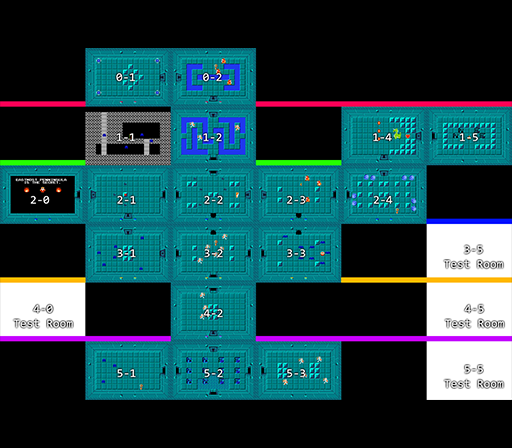
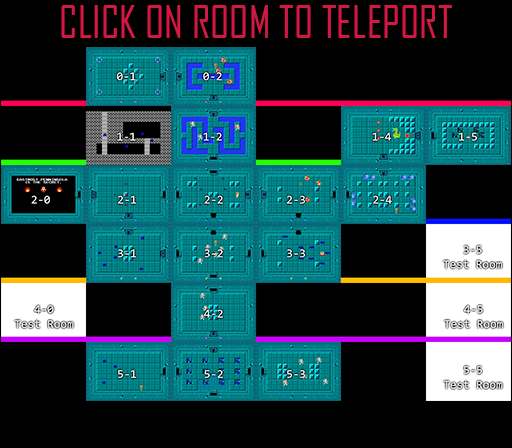
A lot of initial commits

diff --git a/ZeldaTeam3/MouseController.cs b/ZeldaTeam3/MouseController.cs
@@ -1,0 +1,135 @@
+using System.Linq;
+using System;
+using System.Collections.Generic;
+using Microsoft.Xna.Framework.Input;
+using Microsoft.Xna.Framework;
+using Microsoft.Xna.Framework.Graphics;
+
+namespace Zelda
+{
+    internal class MouseController : IUpdatable
+    {
+        private readonly List<Rectangle> _roommap;
+        private IScene _scene;
+
+        public MouseController(ZeldaGame zeldaGame)
+        { 
+            _scene = new DummyScene();
+
+            _roommap = new List<Rectangle>
+            {
+                //Row zero rooms
+                new Rectangle(85,47,85,59),
+                new Rectangle(170,47,85,59),
+
+                //Row one rooms
+                new Rectangle(85,106,85,59),
+                new Rectangle(170,106,85,59),
+                new Rectangle(340,106,85,59),
+                new Rectangle(425,106,85,59),
+
+                //Row two rooms
+                new Rectangle(0,165,85,59),
+                new Rectangle(85,165,85,59),
+                new Rectangle(170,165,85,59),
+                new Rectangle(255,165,85,59),
+                new Rectangle(340,165,85,59),
+
+                //Row three rooms
+                new Rectangle(85,224,85,59),
+                new Rectangle(170,224,85,59),
+                new Rectangle(255,224,85,59),
+                new Rectangle(425,224,85,59),
+
+                //Row four rooms
+                new Rectangle(0,283,85,59),
+                new Rectangle(170,283,85,59),
+                new Rectangle(425,283,85,59),
+
+                //Row five rooms
+                new Rectangle(85,342,85,59),
+                new Rectangle(170,342,85,59),
+                new Rectangle(255,342,85,59),
+                new Rectangle(425,342,85,59),
+            };
+        }
+
+        public void Update()
+        {
+            var mouseState = Mouse.GetState();
+            Point mousePos = new Point(mouseState.X, mouseState.y);
+            foreach (Rectangle room in _roommap)
+            {
+                if(mouseState.LeftButton == ButtonState.Pressed && room.Contains(mousePos))
+                {
+                    int row = -1;
+                    int column = -1;
+                    if(mouseState.X <= 85)
+                    {
+                        column = 0;
+                    } 
+                    if(mouseState.X > 85 && mouseState.X <= 170)
+                    {
+                        column = 1;
+                    }
+                    if(mouseState.X > 170 && mouseState.X <= 255)
+                    {
+                        column = 2;
+                    }
+                    if(mouseState.X > 255 && mouseState.X <= 340)
+                    {
+                        column = 3;
+                    }
+                    if(mouseState.X > 340 && mouseState.X <= 425)
+                    {
+                        column = 4;
+                    }
+                    if (mouseState.X > 425)
+                    {
+                        column = 5;
+                    }
+
+                    if (mouseState.Y > 47 && mouseState.Y <= 106)
+                    {
+                        row = 0;
+                    }
+                    if (mouseState.Y > 106 && mouseState.Y <= 165)
+                    {
+                        row = 1;
+                    }
+                    if (mouseState.Y > 165 && mouseState.Y <= 224)
+                    {
+                        row = 2;
+                    }
+                    if (mouseState.Y > 224 && mouseState.Y <= 283)
+                    {
+                        row = 3;
+                    }
+                    if (mouseState.Y > 283 && mouseState.Y <= 342)
+                    {
+                        row = 4;
+                    }
+                    if (mouseState.Y > 342 && mouseState.Y <= 401)
+                    {
+                        row = 5;
+                    }
+                    var transitionRoom = new Commands.SceneTransitionCommand(_scene,row,column);
+                    transitionRoom.Execute();
+                }
+            }
+
+        }
+
+        public override string ToString()
+        {
+            var result = "";
+            foreach (Rectangle keyCommand in _keymap)
+            {
+                result += KeyListing(keyCommand);
+            }
+            result += "\n";
+
+            return result;
+        }
+    }
+}

diff --git a/ZeldaTeam3/Commands/SceneTransitionCommand.cs b/ZeldaTeam3/Commands/SceneTransitionCommand.cs
@@ -1,0 +1,23 @@
+namespace Zelda.Commands
+{
+    internal class SceneTransitionCommand : ICommand
+    {
+        private readonly IScene _scene;
+        private int _row;
+        private int _column;
+
+        public SceneTransitionCommand(IScene scene, int row, int column)
+        {
+            _scene = scene;
+            _row = row;
+            _column = column;
+        }
+
+        public void Execute()
+        {
+            _scene.TransitionToRoom(_row, _column);
+        }
+
+        public override string ToString() => "Scene Transition to specific row/column";
+    }
+}

diff --git a/ZeldaTeam3/ZeldaGame.cs b/ZeldaTeam3/ZeldaGame.cs
@@ -25,7 +25,7 @@ namespace Zelda
             // Use 2x size of NES window
             _graphics = new GraphicsDeviceManager(this)
             {
-                PreferredBackBufferWidth = 512, PreferredBackBufferHeight = 488
+                PreferredBackBufferWidth = 512, PreferredBackBufferHeight = 448
             };
             _graphics.ApplyChanges();
             Content.RootDirectory = "Content";

diff --git a/ZeldaTeam3/JumpMap.cs b/ZeldaTeam3/JumpMap.cs
@@ -1,0 +1,18 @@
+using System;
+using Zelda;
+using Microsoft.Xna.Framework;
+using Microsoft.Xna.Framework.Graphics;
+using Microsoft.Xna.Framework.Content;
+
+namespace Zelda
+{
+    public class JumpMap
+    {
+        Texture image;
+
+        public JumpMap(ContentManager content)
+        {
+            image = content.Load<Texture2D>("JumpMap");
+        }
+    }
+}

diff --git a/ZeldaTeam3/DummyScene.cs b/ZeldaTeam3/DummyScene.cs
@@ -1,0 +1,18 @@
+using System;
+using Microsoft.Xna.Framework;
+using Microsoft.Xna.Framework.Graphics;
+using Zelda;
+
+public class DummyScene : IScene
+{
+
+    public DummyScene()
+    {
+
+    }
+
+    public void TransitionToRoom(int row, int column)
+    {
+        Console.WriteLine("Dummy called! Row is " + row + ". Column is " + column + ".");
+    }
+}

diff --git a/ZeldaTeam3/IScene.cs b/ZeldaTeam3/IScene.cs
@@ -1,6 +1,6 @@
 namespace Zelda
 {
-    interface IScene
+    public interface IScene
     {
         void TransitionToRoom(int row, int column);
     }
